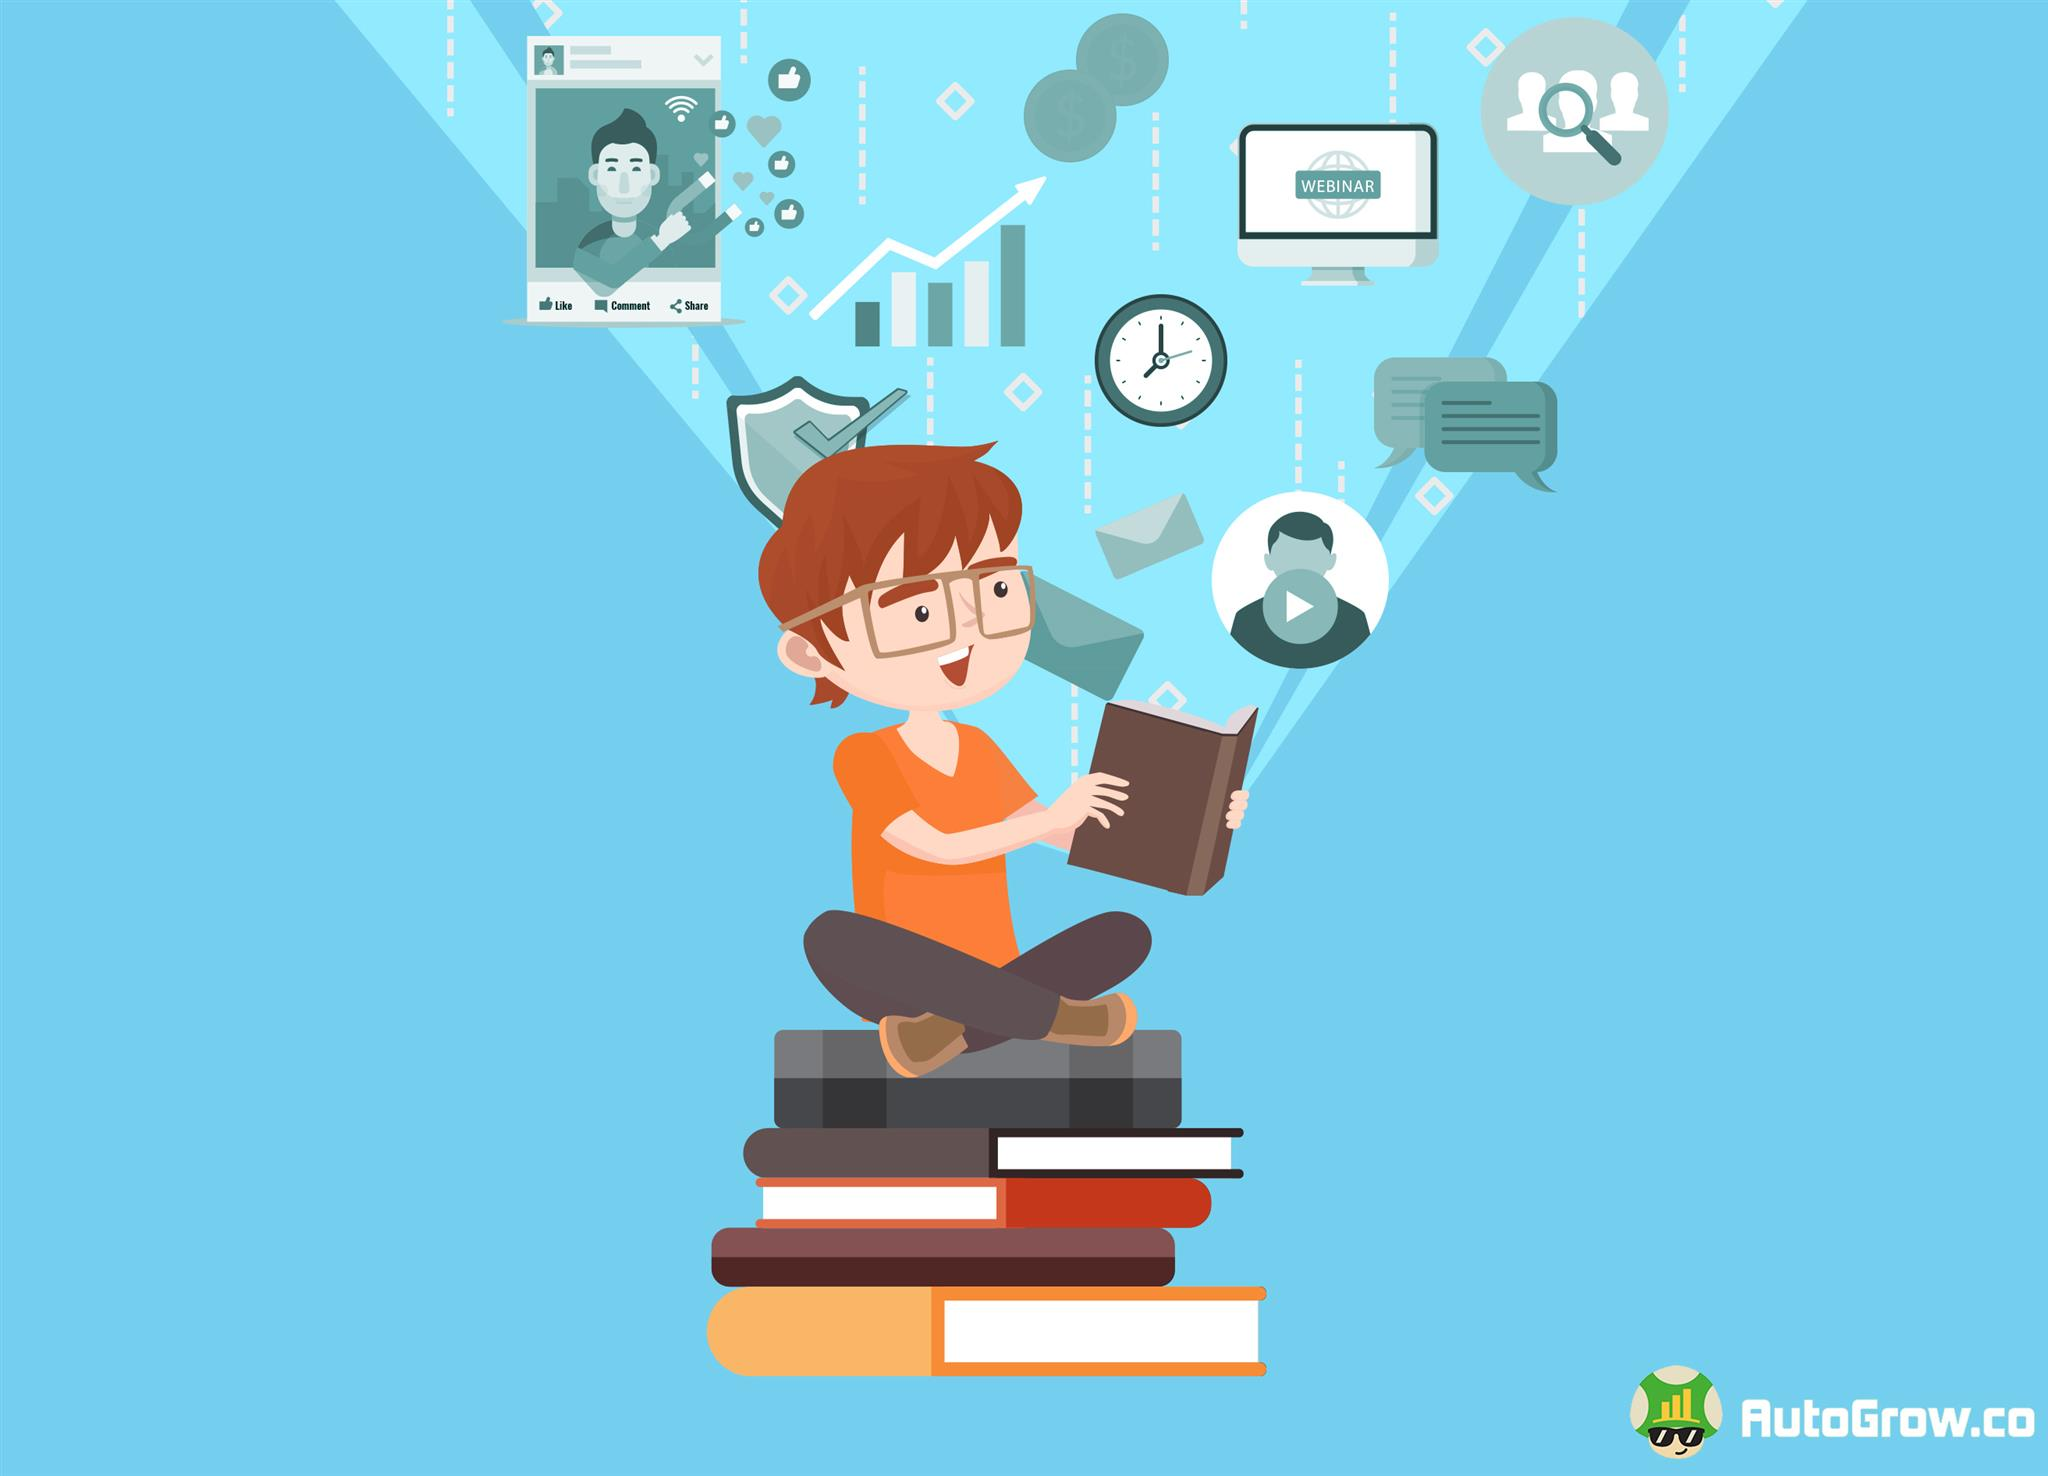
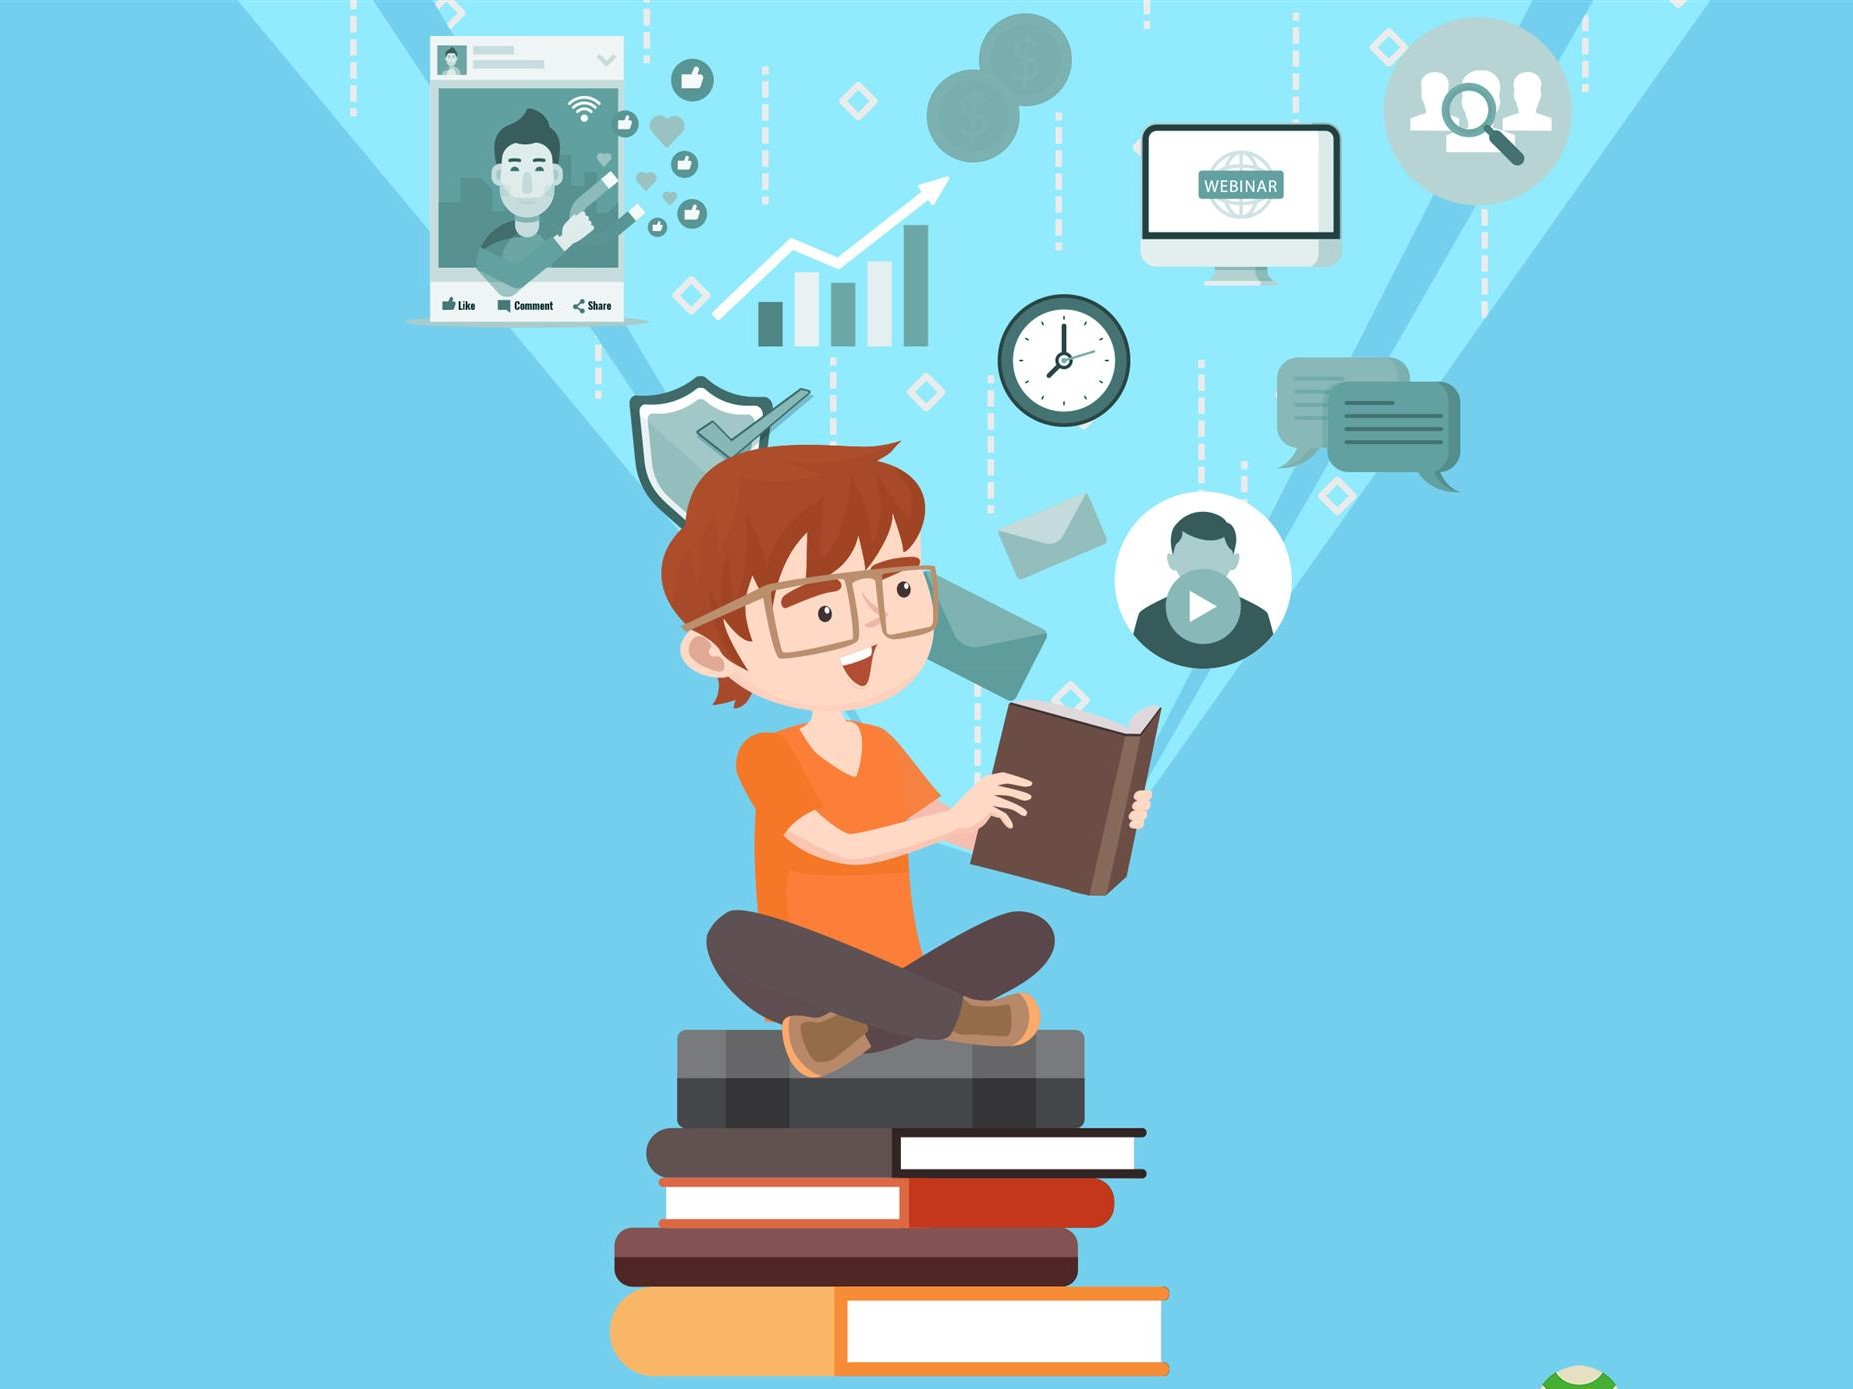
added styling
scaled all images to 4:3 so that thy look uniform, added styles, changed html so that webpage covers all parts of screen

Changed region(s): [[0.123, 0.0, 0.9228, 1.0], [0.7998, 0.9287, 1.0, 1.0]]

diff --git a/yukti21/index.html b/yukti21/index.html
@@ -78,7 +78,7 @@
 
     <!-- ======= Virtual Industry Tour Section ======= -->
     <section id="virtualtour">
-      <div class="container" data-aos="fade-up">
+      <div class="container my-4 py-3" data-aos="fade-up">
         <div class="row">
           <div class="col-lg-6">
             <h2>Virtual Industry Tour</h2>
@@ -91,8 +91,8 @@
               platform</p>
             </div>
             
-          <div class="col-lg-3">
-            <img src="assets/img/gallery/industry.jpg" width="400" >
+          <div class="col-lg-6">
+            <img src="assets/img/gallery/industry.jpg">
           </div>
         </div>
       </div>
@@ -100,8 +100,8 @@
 
     <!-- ======= CorpComp Section ======= -->
     <section id="corpcomp">
-      <div class="container" data-aos="fade-up">
-        <div class="row">
+      <div class="container my-4 py-3" data-aos="fade-up">
+        <div class="row ">
           <div class="col-lg-6">
             <h2>Why CorpComp?</h2>
             <p>In CorpComp, you can organize competitions where students will showcase their talents ranging from problem
@@ -110,8 +110,8 @@
             <p>Competitions are organized throughout the fest from 10th-11th April</p>
             </div>
             
-          <div class="col-lg-3">
-            <img src="assets/img/gallery/corpcomp.jpeg" width="400" >
+          <div class="col-lg-6">
+            <img src="assets/img/gallery/corpcomp.jpeg"  >
           </div>
         </div>
       </div>
@@ -121,16 +121,16 @@
 
     <!-- ======= Workshop Section ======= -->
     <section id="workshop">
-      <div class="container" data-aos="fade-up">
-        <div class="row">
+      <div class="container my-4 py-3" data-aos="fade-up">
+        <div class="row ">
           <div class="col-lg-6">
             <h2>Workshop Wave</h2>
             <p>Certified workshops where students of IIT Delhi will be trained with corporate skills . 
               Many students find their passion in these workshops and may pursue those skills as a career prospect .</p>
             </div>
             
-          <div class="col-lg-3">
-            <img src="assets/img/gallery/workshop.jpg" width="400" >
+          <div class="col-lg-6">
+            <img src="assets/img/gallery/workshop.jpg" >
           </div>
         </div>
       </div>
@@ -138,16 +138,16 @@
 
     <!-- ======= Guest Talk Section ======= -->
     <section id="guest">
-      <div class="container" data-aos="fade-up">
-        <div class="row">
+      <div class="container my-4 py-3" data-aos="fade-up">
+        <div class="row ">
           <div class="col-lg-6">
             <h2>Guest Talks</h2>
             <p>Seminars with expert speakers from companies will give students a peek into the corporate world. 
               This will help students learn from the best in the fields .</p>
             </div>
             
-          <div class="col-lg-3">
-            <img src="assets/img/gallery/guest.jpg" width="400" height="300">
+          <div class="col-lg-6">
+            <img src="assets/img/gallery/guest.jpg" >
           </div>
         </div>
       </div>
@@ -155,7 +155,7 @@
 
     <!-- ======= Job Fair Section ======= -->
     <section id="fair">
-      <div class="container" data-aos="fade-up">
+      <div class="container my-4 py-3" data-aos="fade-up">
         <div class="row">
           <div class="col-lg-6">
             <h2>Job and Internship Fair</h2>
@@ -168,8 +168,8 @@
               excellent opportunities.</p>
             </div>
             
-          <div class="col-lg-3">
-            <img src="assets/img/gallery/image.jpg" width="400" height="300">
+          <div class="col-lg-6">
+            <img src="assets/img/gallery/image.jpg" >
           </div>
         </div>
       </div>

diff --git a/yukti21/assets/css/style.css b/yukti21/assets/css/style.css
@@ -1636,3 +1636,14 @@ h1, h2, h3, h4, h5, h6 {
     border-radius: 50px;
     cursor: pointer;
 }
+
+img{
+  width: 100%;
+  max-height: 100%;
+}
+.reverse{
+  flex-direction: row-reverse;
+}
+h2{
+  font-weight: 600;
+}
